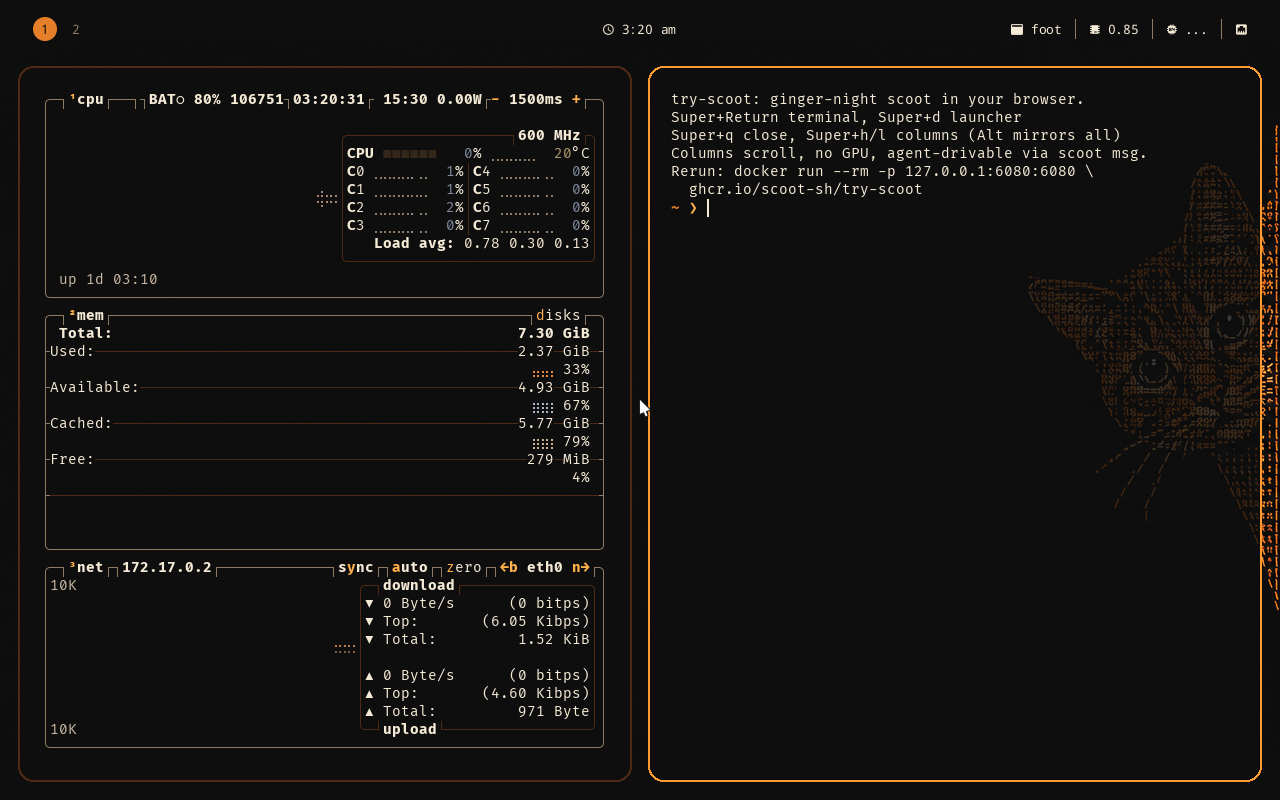
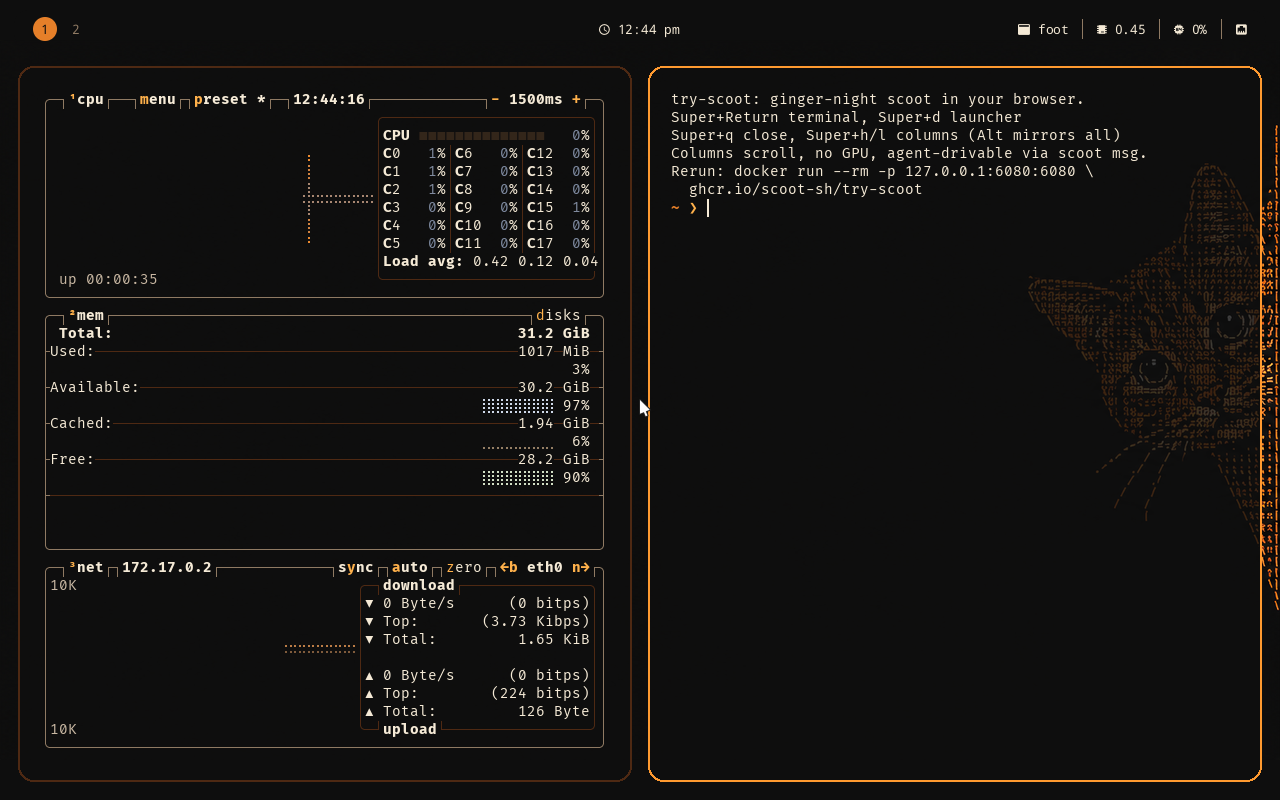
chore(deps): bump scoot to v0.3.0 (3a798fe) (#8)
* chore(deps): bump scoot to v0.3.0

Pin inputs.scoot to the v0.3.0 tag (3a798fe) and read the
ginger-night look from its new home: looks/ginger-night/look.toml
via nix/lib/look-shipped.nix. v0.3.0 retired the
nix/modules/desktop.nix shipped-look registry and
nix/modules/theme-look.nix; the cursor now comes from
look-shipped.cursor. Example TOMLs, foot.ini, fuzzel-theme and the
wallpaper bytes are unchanged.

* docs: scoot v0.3.0 numbers, screenshot, stale refs

Default image 295,111,126 B pull / 884,028,928 B unpacked (+0.3/+0.4%
over v0.2.1); L0 280,405,055 B, L1 294,079,033 B, selkies L0
551,564,586 B, selkies full 623,185,606 B (all aarch64, dev VM
builds). Run-to-capturing 0.80 s, run-to-HTTP-200 0.82 s.
docs/show-it-off.png retaken from the running v0.3.0 image (IPC
screenshot: btop column, welcome terminal, ginger-night bar and
wallpaper). Stale v0.2.1-era comments follow the rename
(theme-look.nix -> nix/lib/look-shipped.nix).

---------

diff --git a/docs/benchmark.md b/docs/benchmark.md
@@ -17,6 +17,7 @@ docs/layers.md; the headline before/after is:
 | this head, measured on the branch (lean baseline rebuilt: scoot `722afd2`) | 187,027,379 B (178.4 MiB) | 599,079,936 B (571.3 MiB) |
 | this head (show-it-off: fonts, bar modules, bash+starship, nvim+btop) | 243,967,344 B (232.7 MiB) | 728,530,944 B (694.8 MiB) |
 | this head (scoot `v0.2.1` / `e5b9dd6`: one default build, Mocu cursor) | 294,188,906 B (280.6 MiB) | 880,126,976 B (839.4 MiB) |
+| this head (scoot `v0.3.0` / `3a798fe`: looks as look.toml, look layer under the config) | 295,111,126 B (281.4 MiB) | 884,028,928 B (843.1 MiB) |
 
 Pull +1,394,334 B (+0.75%) for the look: the 926,588 B wallpaper (already
 optimally compressed upstream, so it rides almost byte-for-byte) plus the
@@ -52,6 +53,18 @@ only Mocu white ships -- `buildEnv` links the package's `out` output, the
 skeleton). L0/L1 diet shape intact at the new rev: L0 279,484,262 B
 (266.5 MiB), L1 293,156,814 B (279.6 MiB); still 53% below the pre-diet pull.
 
+scoot v0.3.0 bump delta (dev VM build, aarch64; M2 `docker export` for the
+unpacked number): pull 294,188,906 B -> 295,111,126 B (+922,220 B, +0.3%),
+unpacked 880,126,976 B -> 884,028,928 B (+3,901,952 B, +0.4%). The looks
+machinery (look.toml catalog, `scoot look` verbs, the look layer in scoot
+and scootbar) costs the image ~1 MB of pull: the session still reads the
+one ginger-night look baked in from the flake at build time
+(`nix/ginger-night.nix` now via `nix/lib/look-shipped.nix`; the retired
+`desktop.nix` registry and `theme-look.nix` were the only breakage), and
+no new runtime lands in the container. L0 280,405,055 B (267.4 MiB), L1
+294,079,033 B (280.5 MiB): the diet steps still build the solid-plum path
+in the same shape, +0.9 MB each over v0.2.1.
+
 ## Time-to-first-frame
 
 Seconds from `docker run` to the first decodable frame in a headless browser
@@ -66,6 +79,7 @@ start and the first-frame probe:
 | lean baseline rebuilt (this branch) | 0.83 s | 0.84 s (same method, 0.2 s poll) |
 | this head (two first-run columns) | 0.91 s | 0.92 s (screenshot `docs/show-it-off.png`) |
 | this head (scoot v0.2.1, re-measured M2, same method) | 0.91 s | 0.92 s |
+| this head (scoot v0.3.0, Docker Desktop on M2, same method) | 0.80 s | 0.82 s (run -> HTTP 200; desktop screenshot via `scoot msg` in the same session, `docs/show-it-off.png`) |
 
 One extra foot costs ~0.1 s. Idle, re-measured this round (no viewer, fresh
 container, 30 s settle per state, 3 runs; method below):

diff --git a/README.md b/README.md
@@ -8,14 +8,14 @@ docker run --rm -p 127.0.0.1:6080:6080 ghcr.io/scoot-sh/try-scoot
 ![scoot's ginger-night desktop in try-scoot: a live btop column beside a welcome terminal, the floating bar with workspaces left, clock centered and window title, load, cpu and network on the right, the cat-peeking wallpaper at the right](docs/show-it-off.png)
 
 The smallest fast way to try scoot: a lightweight desktop running scoot
-v0.2.1 from the scoot flake, in your browser. No GPU needed (scoot's `auto`
+v0.3.0 from the scoot flake, in your browser. No GPU needed (scoot's `auto`
 renderer resolves to the CPU tier here; software capture); no client install.
 
-- **Tiny:** 280.6 MiB pull, 839.4 MiB unpacked (`docker export`), with a
+- **Tiny:** 281.4 MiB pull, 843.1 MiB unpacked (`docker export`), with a
   terminal, launcher, bar, wallpaper, bash + starship, neovim and btop
-  inside, on scoot v0.2.1. The pre-diet image was 596.0 MiB pull / 2.013 GiB unpacked; the
+  inside, on scoot v0.3.0. The pre-diet image was 596.0 MiB pull / 2.013 GiB unpacked; the
   show-it-off apps and fonts add ~54 MiB pull over the lean baseline and the
-  scoot v0.2.1 bump adds ~50 MiB more (the Xwayland server runtime now carried
+  scoot v0.3.0 bump adds ~51 MiB more (the Xwayland server runtime now carried
   in scoot's own closure), itemized in `docs/layers.md`.
 - **Fast:** `docker run` to capturing in 0.91 s, painted desktop in the
   browser at 0.92 s (Asahi M2, measured; method in `docs/benchmark.md`).
@@ -194,9 +194,9 @@ docker run --rm -p 127.0.0.1:8080:8080 ghcr.io/scoot-sh/try-scoot:selkies
 docker logs <container>  # generated password (use the last GENERATED line); open http://localhost:8080/
 ```
 
-Trade-offs, measured (see docs/selkies.md for method): ~593 MiB pull and
-~1.89 GiB unpacked (vs ~281 MiB / ~839 MiB for this tag: the same
-apps+fonts delta plus the same scoot v0.2.1 bump), 0.20% / ~141 MiB idle without a viewer and 27-48% /
+Trade-offs, measured (see docs/selkies.md for method): ~594 MiB pull and
+~1.89 GiB unpacked (vs ~281 MiB / ~843 MiB for this tag: the same
+apps+fonts delta plus the same scoot v0.3.0 bump), 0.20% / ~141 MiB idle without a viewer and 27-48% /
 ~143 MiB with
 a viewer attached and actively streaming (software x264 at 60 fps -- the
 expected cost; viewer-attached figures are the prior round, the live btop

diff --git a/docs/layers.md b/docs/layers.md
@@ -67,6 +67,19 @@ drop without forking scoot. Partly offset by the cursor swap
 (vanilla-dmz -> Mocu, -2,399,376 B NAR). L0 279,484,262 B, L1 293,156,814 B:
 the diet steps still build the solid-plum path in the same shape.
 
+## scoot v0.3.0 bump (this round)
+
+Pull 294,188,906 B -> 295,111,126 B (+922,220 B, +0.3%), unpacked
+880,126,976 B -> 884,028,928 B (+3,901,952 B, +0.4%); full numbers in
+docs/benchmark.md. The only image-side change is where the look is read
+from: `nix/ginger-night.nix` follows the v0.3.0 retirement of the
+`desktop.nix` shipped-look registry and `theme-look.nix` and reads
+`looks/ginger-night/look.toml` through `nix/lib/look-shipped.nix`
+(cursor from `look-shipped.cursor`). Diet step 1 still holds at the new
+rev (layer 57 carries `mesa-libgbm` only -- wayvnc's `libgbm.so.1` --
+foot links no GL; the Xwayland runtime stays, as published). No new
+packages, no new layers of note.
+
 Why FiraCode Nerd Font ships whole instead of a subset: a Nerd-Font subset would break the look's icon coverage on the next scoot bump (any new glyph the look adopts would need re-subsetting, and foot, starship and the bar each draw from different corners of the font), so the image carries the font package as nixpkgs ships it -- one output, all weights -- and follows the look on bump rather than pinning a glyph list that silently rots.
 
 Method: root-env closure via `nix path-info --closure-size`; tarball bytes

diff --git a/docs/selkies.md b/docs/selkies.md
@@ -197,6 +197,8 @@ container for unpacked, `docker stats` after a 30 s settle for idle).
 | Selkies full (`:selkies`, ginger-night) | 515,831,613 B (492.0 MiB) | 1,753,213,440 B (1.633 GiB) | 0.19–0.27% / ~119 MiB (no viewer); 27–48% / ~143 MiB (viewer attached, static screen, actively streaming) |
 | Selkies L0 at scoot v0.2.1 | 551,564,522 B (526.0 MiB) | _n/a (pull only)_ | _n/a_ |
 | Selkies full at scoot v0.2.1 | 622,264,070 B (593.4 MiB) | 2,030,473,728 B (1.891 GiB) | _n/a (same desktop as prior round; idle behavior unchanged by the bump)_ |
+| Selkies L0 at scoot v0.3.0 | 551,564,586 B (526.0 MiB) | _n/a (pull only)_ | _n/a (byte-identical to v0.2.1 within 64 B of tarball noise; no desktop in L0)_ |
+| Selkies full at scoot v0.3.0 | 623,185,606 B (594.3 MiB) | _n/a (pull only)_ | _n/a (same desktop as prior round; +0.9 MB over v0.2.1, the same scoot-bump delta as the default tag)_ |
 
 Reviewed baselines: the default tag's pre-#2 numbers were 185,480,055 B
 pull and 593,971,200 B unpacked (revts4, byte-exact); PR #2's scoot bump
